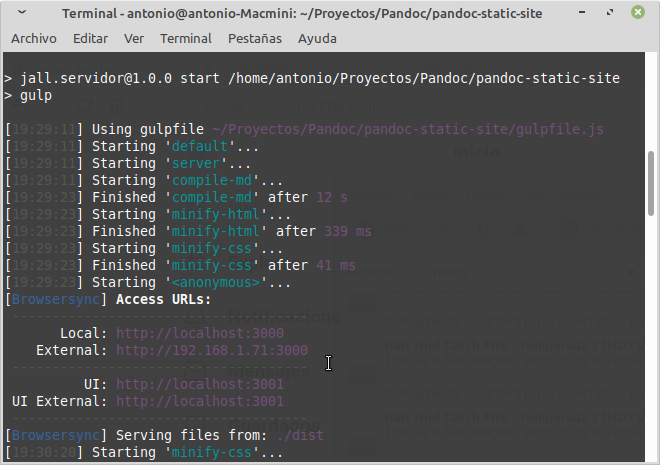
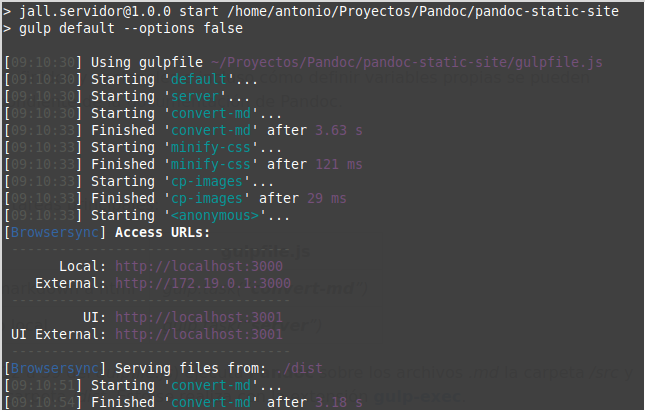
$1

Changed region(s): [[0.0, 0.0, 1.0, 1.0], [0.4961, 0.761, 0.5271, 0.7902]]

diff --git a/dist/detalles/index.html b/dist/detalles/index.html
@@ -1,32 +1,57 @@
 <!DOCTYPE html><html lang="es-ES"><head><meta charset="utf-8"><meta name="viewport" content="width=device-width,initial-scale=1,user-scalable=yes"><meta name="author" content="Jall Profesor"><meta name="keywords" content="static generator, web estática, pandoc,markdown, gulp, github pages, katex, mermaid"><meta name="description" content="Explicación detallada de las herramientas y el flujo de trabajo de este generador de contenido estático"><title>Generador de sitio estático con Pandoc – Detalles</title><meta property="og:title" content="Generador de sitio estático con Pandoc - Detalles"><meta property="og:description" content="Explicación detallada de las herramientas y el flujo de trabajo de este generador de contenido estático"><meta property="og:image" content="https://joseantoniolopezlorenzo.github.io/pandoc-static-site/assets/images/meta-facebook-image.jpg"><meta property="og:url" content="https://joseantoniolopezlorenzo.github.io/pandoc-static-site/"><meta name="twitter:image" content="https://joseantoniolopezlorenzo.github.io/pandoc-static-site/assets/images/meta-twitter-image.jpg"><meta name="twitter:card" content="summary"><meta property="og:site_name" content="Generador de sitio estático con Pandoc"><meta name="twitter:image:alt" content="Generador de sitio estático con Pandoc"><meta name="twitter:site" content="@JallProfesor"><style type="text/css">pre>code.sourceCode{white-space:pre;position:relative}pre>code.sourceCode>span{display:inline-block;line-height:1.25}pre>code.sourceCode>span:empty{height:1.2em}code.sourceCode>span{color:inherit;text-decoration:inherit}div.sourceCode{margin:1em 0}pre.sourceCode{margin:0}@media screen{div.sourceCode{overflow:auto}}@media print{pre>code.sourceCode{white-space:pre-wrap}pre>code.sourceCode>span{text-indent:-5em;padding-left:5em}}pre.numberSource code{counter-reset:source-line 0}pre.numberSource code>span{position:relative;left:-4em;counter-increment:source-line}pre.numberSource code>span>a:first-child::before{content:counter(source-line);position:relative;left:-1em;text-align:right;vertical-align:baseline;border:none;display:inline-block;-webkit-touch-callout:none;-webkit-user-select:none;-khtml-user-select:none;-moz-user-select:none;-ms-user-select:none;user-select:none;padding:0 4px;width:4em;color:#aaa}pre.numberSource{margin-left:3em;border-left:1px solid #aaa;padding-left:4px}@media screen{pre>code.sourceCode>span>a:first-child::before{text-decoration:underline}}code span.al{color:red;font-weight:700}code span.an{color:#60a0b0;font-weight:700;font-style:italic}code span.at{color:#7d9029}code span.bn{color:#40a070}code span.cf{color:#007020;font-weight:700}code span.ch{color:#4070a0}code span.cn{color:#800}code span.co{color:#60a0b0;font-style:italic}code span.cv{color:#60a0b0;font-weight:700;font-style:italic}code span.do{color:#ba2121;font-style:italic}code span.dt{color:#902000}code span.dv{color:#40a070}code span.er{color:red;font-weight:700}code span.fl{color:#40a070}code span.fu{color:#06287e}code span.in{color:#60a0b0;font-weight:700;font-style:italic}code span.kw{color:#007020;font-weight:700}code span.op{color:#666}code span.ot{color:#007020}code span.pp{color:#bc7a00}code span.sc{color:#4070a0}code span.ss{color:#b68}code span.st{color:#4070a0}code span.va{color:#19177c}code span.vs{color:#4070a0}code span.wa{color:#60a0b0;font-weight:700;font-style:italic}</style><link rel="shortcut icon" href="/pandoc-static-site/assets/images/favicon.ico"><link rel="stylesheet" href="../assets/katex.min.css"><link rel="stylesheet" href="../assets/github.min.css"><link rel="stylesheet" href="../assets/jall.min.css"><!--[if lt IE 9]>
     <script src="//cdnjs.cloudflare.com/ajax/libs/html5shiv/3.7.3/html5shiv-printshiv.min.js"></script>
-  <![endif]--><script>console.log("hola mundo")</script></head><body><article class="markdown-body"><div class="header_nav"><ul><li><a href="/pandoc-static-site/index.html">Inicio</a></li><li><a href="/pandoc-static-site/detalles/index.html">Detalles</a></li><li><a href="https://github.com/joseantoniolopezlorenzo/pandoc-static-site">Repositorio</a></li><li><a href="/">CV</a></li></ul></div><header><h1 class="title followed-by-subtitle">Detalles</h1><p class="subtitle">Las herramientas utilizadas en detalle</p><p class="author">Jall Profesor - 26/10/2020</p></header><hr><nav id="TOC"><h1 class="toc-title">En esta página</h1><ul><li><a href="#requisitos.">Requisitos.</a><ul><li><a href="#instalación-de-pandoc-y-filtros.">Instalación de Pandoc y filtros.</a></li></ul></li><li><a href="#elementos">Elementos</a><ul><li><a href="#plantilla-pandoc.">Plantilla Pandoc.</a></li><li><a href="#html.yaml">html.yaml</a></li><li><a href="#archivos-markdown-y-assets.">Archivos markdown y assets.</a></li></ul></li><li><a href="#gulp.">Gulp.</a></li><li><a href="#git.">Git.</a></li></ul></nav><hr><section id="requisitos." class="level1"><h1>Requisitos.</h1><section id="instalación-de-pandoc-y-filtros." class="level2"><h2>Instalación de Pandoc y filtros.</h2><p>Es preciso tener instalado <strong>Pandoc</strong> en nuestro ordenador de desarrollo. En <a href="https://pandoc.org/installing.html">esta dirección</a> encontrará instaladores para Windows, macOS, Linux, etc.</p><p>Las extensiones de pandoc que se utilizan en el proyecto son:</p><ul><li><a href="https://pypi.org/project/pandoc_static_katex/">pandoc-static-katex</a>: Este filtro que usa <span class="math inline" data-latex-input="\KaTeX"><span class="katex"><span class="katex-mathml"><math xmlns="http://www.w3.org/1998/Math/MathML"><semantics><mrow><mtext>KaTeX</mtext></mrow><annotation encoding="application/x-tex">\KaTeX</annotation></semantics></math></span><span class="katex-html" aria-hidden="true"><span class="base"><span class="strut" style="height:.89883em;vertical-align:-.2155em"></span><span class="mord text"><span class="mord textrm">K</span><span class="mspace" style="margin-right:-.17em"></span><span class="vlist-t"><span class="vlist-r"><span class="vlist" style="height:.68333em"><span style="top:-2.904999em"><span class="pstrut" style="height:2.7em"></span><span class="mord"><span class="mord textrm mtight sizing reset-size6 size3">A</span></span></span></span></span></span><span class="mspace" style="margin-right:-.15em"></span><span class="mord text"><span class="mord textrm">T</span><span class="mspace" style="margin-right:-.1667em"></span><span class="vlist-t vlist-t2"><span class="vlist-r"><span class="vlist" style="height:.46782999999999997em"><span style="top:-2.7845em"><span class="pstrut" style="height:3em"></span><span class="mord"><span class="mord textrm">E</span></span></span></span><span class="vlist-s"></span></span><span class="vlist-r"><span class="vlist" style="height:.2155em"><span></span></span></span></span><span class="mspace" style="margin-right:-.125em"></span><span class="mord textrm">X</span></span></span></span></span></span> </span>para representar ecuaciones matemáticas en el momento de la construcción (<em>build time</em>). Hace posible mostrar ecuaciones matemáticas escritas en <span class="math inline" data-latex-input="\LaTeX"><span class="katex"><span class="katex-mathml"><math xmlns="http://www.w3.org/1998/Math/MathML"><semantics><mrow><mtext>LaTeX</mtext></mrow><annotation encoding="application/x-tex">\LaTeX</annotation></semantics></math></span><span class="katex-html" aria-hidden="true"><span class="base"><span class="strut" style="height:.89883em;vertical-align:-.2155em"></span><span class="mord text"><span class="mord textrm">L</span><span class="mspace" style="margin-right:-.36em"></span><span class="vlist-t"><span class="vlist-r"><span class="vlist" style="height:.68333em"><span style="top:-2.904999em"><span class="pstrut" style="height:2.7em"></span><span class="mord"><span class="mord textrm mtight sizing reset-size6 size3">A</span></span></span></span></span></span><span class="mspace" style="margin-right:-.15em"></span><span class="mord text"><span class="mord textrm">T</span><span class="mspace" style="margin-right:-.1667em"></span><span class="vlist-t vlist-t2"><span class="vlist-r"><span class="vlist" style="height:.46782999999999997em"><span style="top:-2.7845em"><span class="pstrut" style="height:3em"></span><span class="mord"><span class="mord textrm">E</span></span></span></span><span class="vlist-s"></span></span><span class="vlist-r"><span class="vlist" style="height:.2155em"><span></span></span></span></span><span class="mspace" style="margin-right:-.125em"></span><span class="mord textrm">X</span></span></span></span></span></span> </span>sin ninguna ejecución de JavaScript en el navegador. El archivo <strong>katex.min.css</strong> se encuentra en <em>/dist/assets/katex.min.css</em> y las fuentes utilizadas por <span class="math inline" data-latex-input="\KaTeX"><span class="katex"><span class="katex-mathml"><math xmlns="http://www.w3.org/1998/Math/MathML"><semantics><mrow><mtext>KaTeX</mtext></mrow><annotation encoding="application/x-tex">\KaTeX</annotation></semantics></math></span><span class="katex-html" aria-hidden="true"><span class="base"><span class="strut" style="height:.89883em;vertical-align:-.2155em"></span><span class="mord text"><span class="mord textrm">K</span><span class="mspace" style="margin-right:-.17em"></span><span class="vlist-t"><span class="vlist-r"><span class="vlist" style="height:.68333em"><span style="top:-2.904999em"><span class="pstrut" style="height:2.7em"></span><span class="mord"><span class="mord textrm mtight sizing reset-size6 size3">A</span></span></span></span></span></span><span class="mspace" style="margin-right:-.15em"></span><span class="mord text"><span class="mord textrm">T</span><span class="mspace" style="margin-right:-.1667em"></span><span class="vlist-t vlist-t2"><span class="vlist-r"><span class="vlist" style="height:.46782999999999997em"><span style="top:-2.7845em"><span class="pstrut" style="height:3em"></span><span class="mord"><span class="mord textrm">E</span></span></span></span><span class="vlist-s"></span></span><span class="vlist-r"><span class="vlist" style="height:.2155em"><span></span></span></span></span><span class="mspace" style="margin-right:-.125em"></span><span class="mord textrm">X</span></span></span></span></span></span> </span>en <em>/dist/assets/fonts</em>.</li><li><a href="https://github.com/raghur/mermaid-filter">mermaid-filter</a>: Este filtro permite realizar diagramas de secuencia y otros gráficos en archivos markdown.</li><li><a href="https://github.com/scotthartley/pandoc-chem-struct">pandoc-chem-struct</a>: es un filtro que convierte estructuras químicas simples en el formato adecuado siendo más fáciles de leer y de escribir.</li></ul></section></section><section id="elementos" class="level1"><h1>Elementos</h1><section id="plantilla-pandoc." class="level2"><h2>Plantilla Pandoc.</h2><p>Una vez cubierto el paso anterior, necesitaremos una <strong>plantilla html5 pandoc</strong> que permita la traducción a html. Hemos elegido la plantilla <strong>Github</strong> que encontrará en la carpeta <em>/templates/Github.html</em> y que ha sido convenientemente adaptada. Asimismo, se necesita el correspondiente archivo de estilos que puede encontrar en <em>/src/assets/github.css</em>. Finalmente, un archivo con los estilos personales <em>/src/assets/jall.css</em>. Puede encontrar muchas más plantillas <a href="https://github.com/topics/pandoc-template">aquí</a></p></section><section id="html.yaml" class="level2"><h2>html.yaml</h2><p>Necesitamos un archivo <strong>html.yaml</strong> que nos permita configurar la compilación de Pandoc. Lo puede encontrar en <em>/html.yaml</em> y que consta del siguiente contenido:</p><div class="sourceCode" id="cb1"><pre class="sourceCode yaml"><code class="sourceCode yaml"><span id="cb1-1"><a href="#cb1-1" aria-hidden="true"></a><span class="fu">from</span><span class="kw">:</span><span class="at"> markdown</span></span>
-<span id="cb1-2"><a href="#cb1-2" aria-hidden="true"></a><span class="fu">to</span><span class="kw">:</span><span class="at"> html5</span></span>
-<span id="cb1-3"><a href="#cb1-3" aria-hidden="true"></a><span class="fu">fail-if-warnings</span><span class="kw">:</span><span class="at"> </span><span class="ch">false</span></span>
-<span id="cb1-4"><a href="#cb1-4" aria-hidden="true"></a><span class="fu">standalone</span><span class="kw">:</span><span class="at"> </span><span class="ch">true</span></span>
-<span id="cb1-5"><a href="#cb1-5" aria-hidden="true"></a><span class="fu">section-divs</span><span class="kw">:</span><span class="at"> </span><span class="ch">true</span></span>
-<span id="cb1-6"><a href="#cb1-6" aria-hidden="true"></a><span class="fu">eol</span><span class="kw">:</span><span class="at"> lf</span></span>
-<span id="cb1-7"><a href="#cb1-7" aria-hidden="true"></a><span class="fu">filters</span><span class="kw">:</span></span>
-<span id="cb1-8"><a href="#cb1-8" aria-hidden="true"></a><span class="at">  </span><span class="kw">-</span><span class="at"> pandoc-static-katex</span></span>
-<span id="cb1-9"><a href="#cb1-9" aria-hidden="true"></a><span class="at">  </span><span class="kw">-</span><span class="at"> mermaid-filter</span></span>
-<span id="cb1-10"><a href="#cb1-10" aria-hidden="true"></a><span class="at">  </span><span class="kw">-</span><span class="at"> pandoc-chem-struct</span></span>
-<span id="cb1-11"><a href="#cb1-11" aria-hidden="true"></a><span class="fu">template</span><span class="kw">:</span><span class="at"> ./templates/GitHub.html</span></span>
-<span id="cb1-12"><a href="#cb1-12" aria-hidden="true"></a><span class="fu">include-in-header</span><span class="kw">:</span></span>
-<span id="cb1-13"><a href="#cb1-13" aria-hidden="true"></a><span class="at">  </span><span class="kw">-</span><span class="at"> templates/header.txt</span></span>
-<span id="cb1-14"><a href="#cb1-14" aria-hidden="true"></a><span class="fu">toc</span><span class="kw">:</span><span class="at"> </span><span class="ch">true</span></span>
-<span id="cb1-15"><a href="#cb1-15" aria-hidden="true"></a><span class="fu">toc-depth</span><span class="kw">:</span><span class="at"> </span><span class="dv">3</span></span></code></pre></div></section><section id="archivos-markdown-y-assets." class="level2"><h2>Archivos markdown y assets.</h2><p>Se encuentan en la carpeta <em>/src</em>. Cada archivo <em>*.md</em> será convertido en su correspondiente archivo <em>*.html</em>. Por otro lado, se pueden crear tantas subcarpetas como sean necesarias (este markdown se encuentra, por ejemplo, en <em>/src/detalles/index.md</em>).</p><p>Un elemento importante de los achivos markdown son las cabeceras escritas en markdown que aportan <strong>metainformación</strong> necesaria. Por ejemplo, esta es la cabecera de este archivo:</p><div class="sourceCode" id="cb2"><pre class="sourceCode yaml"><code class="sourceCode yaml"><span id="cb2-1"><a href="#cb2-1" aria-hidden="true"></a></span>
-<span id="cb2-2"><a href="#cb2-2" aria-hidden="true"></a><span class="pp">---</span></span>
-<span id="cb2-3"><a href="#cb2-3" aria-hidden="true"></a><span class="at">  </span><span class="fu">title</span><span class="kw">:</span><span class="at"> Detalles</span></span>
-<span id="cb2-4"><a href="#cb2-4" aria-hidden="true"></a><span class="at">  </span><span class="fu">title-prefix</span><span class="kw">:</span><span class="at"> Generador de sitio estático con Pandoc</span></span>
-<span id="cb2-5"><a href="#cb2-5" aria-hidden="true"></a><span class="at">  </span><span class="fu">subtitle</span><span class="kw">:</span><span class="at"> Las herramientas utilizadas en detalle</span></span>
-<span id="cb2-6"><a href="#cb2-6" aria-hidden="true"></a><span class="at">  </span><span class="fu">description</span><span class="kw">:</span><span class="at"> Explicación detallada de las herramientas y el flujo de trabajo de este generador de contenido estático</span></span>
-<span id="cb2-7"><a href="#cb2-7" aria-hidden="true"></a><span class="at">  </span><span class="fu">keywords</span><span class="kw">:</span><span class="at"> static generator, web estática, pandoc,markdown, gulp, github pages, katex, mermaid</span></span>
-<span id="cb2-8"><a href="#cb2-8" aria-hidden="true"></a><span class="at">  </span><span class="fu">lang</span><span class="kw">:</span><span class="at"> </span><span class="st">&#39;es-ES&#39;</span></span>
-<span id="cb2-9"><a href="#cb2-9" aria-hidden="true"></a><span class="at">  </span><span class="fu">toc-title</span><span class="kw">:</span><span class="at"> En esta página</span></span>
-<span id="cb2-10"><a href="#cb2-10" aria-hidden="true"></a><span class="at">  </span><span class="fu">date</span><span class="kw">:</span><span class="at"> 26/10/2020</span></span>
-<span id="cb2-11"><a href="#cb2-11" aria-hidden="true"></a><span class="at">  </span><span class="fu">author</span><span class="kw">:</span><span class="at"> Jall Profesor</span></span>
-<span id="cb2-12"><a href="#cb2-12" aria-hidden="true"></a><span class="at">  </span><span class="fu">css</span><span class="kw">:</span></span>
-<span id="cb2-13"><a href="#cb2-13" aria-hidden="true"></a><span class="at">    </span><span class="kw">-</span><span class="at"> ../assets/katex.min.css</span></span>
-<span id="cb2-14"><a href="#cb2-14" aria-hidden="true"></a><span class="at">    </span><span class="kw">-</span><span class="at"> ../assets/github.min.css</span></span>
-<span id="cb2-15"><a href="#cb2-15" aria-hidden="true"></a><span class="at">    </span><span class="kw">-</span><span class="at"> ../assets/jall.min.css</span></span>
-<span id="cb2-16"><a href="#cb2-16" aria-hidden="true"></a><span class="pp">---</span></span></code></pre></div><p>Otros campos de metainformación e incluso definir variables se pueden encontrar en el apartado correspondiente de la <a href="https://pandoc.org/MANUAL.html">documentación</a> de Pandoc.</p></section></section><section id="gulp." class="level1"><h1>Gulp.</h1></section><section id="git." class="level1"><h1>Git.</h1></section><section class="contacto">Contacto<ul class="contacto-container center"><li class="contacto-item"><a href="https://github.com/joseantoniolopezlorenzo"><img src="/pandoc-static-site/assets/images/github.svg" alt="GitHub"></a></li><li class="contacto-item"><a href="mailto:jall.profesor@gmail.com"><img src="/pandoc-static-site/assets/images/email.svg" alt="Email contacto"></a></li><li class="contacto-item"><a href="https://twitter.com/JallProfesor"><img src="/pandoc-static-site/assets/images/twitter.svg" alt="Twitter"></a></li><li class="contacto-item"><a href="https://www.facebook.com/joseantonio.lopezlorenzo.31508"><img src="/pandoc-static-site/assets/images/facebook.svg" alt="Facebook"></a></li></ul></section></article></body></html>
+  <![endif]--><script>console.log("hola mundo")</script></head><body><article class="markdown-body"><div class="header_nav"><ul><li><a href="/pandoc-static-site/index.html">Inicio</a></li><li><a href="/pandoc-static-site/detalles/index.html">Detalles</a></li><li><a href="https://github.com/joseantoniolopezlorenzo/pandoc-static-site">Repositorio</a></li><li><a href="/">CV</a></li></ul></div><header><h1 class="title followed-by-subtitle">Detalles</h1><p class="subtitle">Las herramientas utilizadas en detalle</p><p class="author">Jall Profesor - 26/10/2020</p></header><hr><nav id="TOC"><h1 class="toc-title">En esta página</h1><ul><li><a href="#requisitos.">Requisitos.</a><ul><li><a href="#instalación-de-pandoc-y-gulp.">Instalación de Pandoc y Gulp.</a></li></ul></li><li><a href="#elementos-de-contenido.">Elementos de contenido.</a><ul><li><a href="#plantilla-pandoc.">Plantilla Pandoc.</a></li><li><a href="#html.yaml">html.yaml</a></li><li><a href="#archivos-markdown-y-assets.">Archivos markdown y assets.</a></li></ul></li><li><a href="#gulp.">Gulp.</a></li><li><a href="#git.">Git.</a></li></ul></nav><hr><section id="requisitos." class="level1"><h1>Requisitos.</h1><section id="instalación-de-pandoc-y-gulp." class="level2"><h2>Instalación de Pandoc y Gulp.</h2><p>Es preciso tener instalado <strong>Pandoc</strong> en nuestro ordenador de desarrollo. En <a href="https://pandoc.org/installing.html">esta dirección</a> encontrará instaladores para Windows, macOS, Linux, etc.</p><p>Las extensiones de pandoc que se utilizan en el proyecto son:</p><ul><li><a href="https://pypi.org/project/pandoc_static_katex/">pandoc-static-katex</a>: Este filtro que usa <span class="math inline" data-latex-input="\KaTeX"><span class="katex"><span class="katex-mathml"><math xmlns="http://www.w3.org/1998/Math/MathML"><semantics><mrow><mtext>KaTeX</mtext></mrow><annotation encoding="application/x-tex">\KaTeX</annotation></semantics></math></span><span class="katex-html" aria-hidden="true"><span class="base"><span class="strut" style="height:.89883em;vertical-align:-.2155em"></span><span class="mord text"><span class="mord textrm">K</span><span class="mspace" style="margin-right:-.17em"></span><span class="vlist-t"><span class="vlist-r"><span class="vlist" style="height:.68333em"><span style="top:-2.904999em"><span class="pstrut" style="height:2.7em"></span><span class="mord"><span class="mord textrm mtight sizing reset-size6 size3">A</span></span></span></span></span></span><span class="mspace" style="margin-right:-.15em"></span><span class="mord text"><span class="mord textrm">T</span><span class="mspace" style="margin-right:-.1667em"></span><span class="vlist-t vlist-t2"><span class="vlist-r"><span class="vlist" style="height:.46782999999999997em"><span style="top:-2.7845em"><span class="pstrut" style="height:3em"></span><span class="mord"><span class="mord textrm">E</span></span></span></span><span class="vlist-s"></span></span><span class="vlist-r"><span class="vlist" style="height:.2155em"><span></span></span></span></span><span class="mspace" style="margin-right:-.125em"></span><span class="mord textrm">X</span></span></span></span></span></span> </span>para representar ecuaciones matemáticas en el momento de la construcción (<em>build time</em>). Hace posible mostrar ecuaciones matemáticas escritas en <span class="math inline" data-latex-input="\LaTeX"><span class="katex"><span class="katex-mathml"><math xmlns="http://www.w3.org/1998/Math/MathML"><semantics><mrow><mtext>LaTeX</mtext></mrow><annotation encoding="application/x-tex">\LaTeX</annotation></semantics></math></span><span class="katex-html" aria-hidden="true"><span class="base"><span class="strut" style="height:.89883em;vertical-align:-.2155em"></span><span class="mord text"><span class="mord textrm">L</span><span class="mspace" style="margin-right:-.36em"></span><span class="vlist-t"><span class="vlist-r"><span class="vlist" style="height:.68333em"><span style="top:-2.904999em"><span class="pstrut" style="height:2.7em"></span><span class="mord"><span class="mord textrm mtight sizing reset-size6 size3">A</span></span></span></span></span></span><span class="mspace" style="margin-right:-.15em"></span><span class="mord text"><span class="mord textrm">T</span><span class="mspace" style="margin-right:-.1667em"></span><span class="vlist-t vlist-t2"><span class="vlist-r"><span class="vlist" style="height:.46782999999999997em"><span style="top:-2.7845em"><span class="pstrut" style="height:3em"></span><span class="mord"><span class="mord textrm">E</span></span></span></span><span class="vlist-s"></span></span><span class="vlist-r"><span class="vlist" style="height:.2155em"><span></span></span></span></span><span class="mspace" style="margin-right:-.125em"></span><span class="mord textrm">X</span></span></span></span></span></span> </span>sin ninguna ejecución de JavaScript en el navegador. El archivo <strong>katex.min.css</strong> se encuentra en <em>/dist/assets/katex.min.css</em> y las fuentes utilizadas por <span class="math inline" data-latex-input="\KaTeX"><span class="katex"><span class="katex-mathml"><math xmlns="http://www.w3.org/1998/Math/MathML"><semantics><mrow><mtext>KaTeX</mtext></mrow><annotation encoding="application/x-tex">\KaTeX</annotation></semantics></math></span><span class="katex-html" aria-hidden="true"><span class="base"><span class="strut" style="height:.89883em;vertical-align:-.2155em"></span><span class="mord text"><span class="mord textrm">K</span><span class="mspace" style="margin-right:-.17em"></span><span class="vlist-t"><span class="vlist-r"><span class="vlist" style="height:.68333em"><span style="top:-2.904999em"><span class="pstrut" style="height:2.7em"></span><span class="mord"><span class="mord textrm mtight sizing reset-size6 size3">A</span></span></span></span></span></span><span class="mspace" style="margin-right:-.15em"></span><span class="mord text"><span class="mord textrm">T</span><span class="mspace" style="margin-right:-.1667em"></span><span class="vlist-t vlist-t2"><span class="vlist-r"><span class="vlist" style="height:.46782999999999997em"><span style="top:-2.7845em"><span class="pstrut" style="height:3em"></span><span class="mord"><span class="mord textrm">E</span></span></span></span><span class="vlist-s"></span></span><span class="vlist-r"><span class="vlist" style="height:.2155em"><span></span></span></span></span><span class="mspace" style="margin-right:-.125em"></span><span class="mord textrm">X</span></span></span></span></span></span> </span>en <em>/dist/assets/fonts</em>.</li><li><a href="https://github.com/raghur/mermaid-filter">mermaid-filter</a>: Este filtro permite realizar diagramas de secuencia y otros gráficos en archivos markdown.</li><li><a href="https://github.com/scotthartley/pandoc-chem-struct">pandoc-chem-struct</a>: es un filtro que convierte estructuras químicas simples en el formato adecuado siendo más fáciles de leer y de escribir.</li></ul><p>Otro requisito imprescindible es tener instalado <strong>nodejs</strong> para poder utilizar el automatizador de tareas <strong>Gulp</strong>. Se puede revisar el archivo <em>package.json</em> para ver los paquetes utilizados en el proyecto. No olvide ejecutar en el terminal si ha clonado el repositorio:</p><div class="sourceCode" id="cb1"><pre class="sourceCode bash"><code class="sourceCode bash"><span id="cb1-1"><a href="#cb1-1" aria-hidden="true"></a>$ <span class="ex">npm</span> install</span></code></pre></div></section></section><section id="elementos-de-contenido." class="level1"><h1>Elementos de contenido.</h1><section id="plantilla-pandoc." class="level2"><h2>Plantilla Pandoc.</h2><p>Una vez cubierto el paso anterior, necesitaremos una <strong>plantilla html5 pandoc</strong> que permita la traducción a html. Hemos elegido la plantilla <strong>Github</strong> que encontrará en la carpeta <em>/templates/Github.html</em> y que ha sido convenientemente adaptada. Asimismo, se necesita el correspondiente archivo de estilos que puede encontrar en <em>/src/assets/github.css</em>. Es altamente recomendable leer con detalle y tratar de entender esta plantilla para hacerse una idea de cómo funciona <strong>Pandoc</strong>. Finalmente, un archivo con los estilos personales <em>/src/assets/jall.css</em>. Puede encontrar muchas más plantillas <a href="https://github.com/topics/pandoc-template">aquí</a></p></section><section id="html.yaml" class="level2"><h2>html.yaml</h2><p>Necesitamos un archivo <strong>html.yaml</strong> que nos permita configurar la compilación de Pandoc y así evitar una enorme línea de comando de conversión. Lo puede encontrar en <em>/html.yaml</em>:</p><div class="sourceCode" id="cb2"><pre class="sourceCode yaml"><code class="sourceCode yaml"><span id="cb2-1"><a href="#cb2-1" aria-hidden="true"></a><span class="fu">from</span><span class="kw">:</span><span class="at"> markdown</span></span>
+<span id="cb2-2"><a href="#cb2-2" aria-hidden="true"></a><span class="fu">to</span><span class="kw">:</span><span class="at"> html5</span></span>
+<span id="cb2-3"><a href="#cb2-3" aria-hidden="true"></a><span class="fu">fail-if-warnings</span><span class="kw">:</span><span class="at"> </span><span class="ch">false</span></span>
+<span id="cb2-4"><a href="#cb2-4" aria-hidden="true"></a><span class="fu">standalone</span><span class="kw">:</span><span class="at"> </span><span class="ch">true</span></span>
+<span id="cb2-5"><a href="#cb2-5" aria-hidden="true"></a><span class="fu">section-divs</span><span class="kw">:</span><span class="at"> </span><span class="ch">true</span></span>
+<span id="cb2-6"><a href="#cb2-6" aria-hidden="true"></a><span class="fu">eol</span><span class="kw">:</span><span class="at"> lf</span></span>
+<span id="cb2-7"><a href="#cb2-7" aria-hidden="true"></a><span class="fu">filters</span><span class="kw">:</span></span>
+<span id="cb2-8"><a href="#cb2-8" aria-hidden="true"></a><span class="at">  </span><span class="kw">-</span><span class="at"> pandoc-static-katex</span></span>
+<span id="cb2-9"><a href="#cb2-9" aria-hidden="true"></a><span class="at">  </span><span class="kw">-</span><span class="at"> mermaid-filter</span></span>
+<span id="cb2-10"><a href="#cb2-10" aria-hidden="true"></a><span class="at">  </span><span class="kw">-</span><span class="at"> pandoc-chem-struct</span></span>
+<span id="cb2-11"><a href="#cb2-11" aria-hidden="true"></a><span class="fu">template</span><span class="kw">:</span><span class="at"> ./templates/GitHub.html</span></span>
+<span id="cb2-12"><a href="#cb2-12" aria-hidden="true"></a><span class="fu">include-in-header</span><span class="kw">:</span></span>
+<span id="cb2-13"><a href="#cb2-13" aria-hidden="true"></a><span class="at">  </span><span class="kw">-</span><span class="at"> templates/header.txt</span></span>
+<span id="cb2-14"><a href="#cb2-14" aria-hidden="true"></a><span class="fu">toc</span><span class="kw">:</span><span class="at"> </span><span class="ch">true</span></span>
+<span id="cb2-15"><a href="#cb2-15" aria-hidden="true"></a><span class="fu">toc-depth</span><span class="kw">:</span><span class="at"> </span><span class="dv">3</span></span></code></pre></div></section><section id="archivos-markdown-y-assets." class="level2"><h2>Archivos markdown y assets.</h2><p>Se encuentan en la carpeta <em>/src</em>. Cada archivo <em>*.md</em> será convertido en su correspondiente archivo <em>*.html</em>. Por otro lado, se pueden crear tantas subcarpetas como sean necesarias (este markdown se encuentra, por ejemplo, en <em>/src/detalles/index.md</em>). La carpeta assets será copiada a <em>/dist</em> después de un minimizado de los archivos <em>css</em>.</p><p>Un elemento importante de los achivos markdown son las cabeceras escritas en yaml que aportan <strong>metadatos</strong> específicos de cada archivo a la hora de la conversión en páginas web. Por ejemplo, la cabecera del archivo correspondiente a esta página web es:</p><div class="sourceCode" id="cb3"><pre class="sourceCode yaml"><code class="sourceCode yaml"><span id="cb3-1"><a href="#cb3-1" aria-hidden="true"></a></span>
+<span id="cb3-2"><a href="#cb3-2" aria-hidden="true"></a><span class="pp">---</span></span>
+<span id="cb3-3"><a href="#cb3-3" aria-hidden="true"></a><span class="at">  </span><span class="fu">title</span><span class="kw">:</span><span class="at"> Detalles</span></span>
+<span id="cb3-4"><a href="#cb3-4" aria-hidden="true"></a><span class="at">  </span><span class="fu">title-prefix</span><span class="kw">:</span><span class="at"> Generador de sitio estático con Pandoc</span></span>
+<span id="cb3-5"><a href="#cb3-5" aria-hidden="true"></a><span class="at">  </span><span class="fu">subtitle</span><span class="kw">:</span><span class="at"> Las herramientas utilizadas en detalle</span></span>
+<span id="cb3-6"><a href="#cb3-6" aria-hidden="true"></a><span class="at">  </span><span class="fu">description</span><span class="kw">:</span><span class="at"> Explicación detallada de las herramientas y el flujo de trabajo de este generador de contenido estático</span></span>
+<span id="cb3-7"><a href="#cb3-7" aria-hidden="true"></a><span class="at">  </span><span class="fu">keywords</span><span class="kw">:</span><span class="at"> static generator, web estática, pandoc,markdown, gulp, github pages, katex, mermaid</span></span>
+<span id="cb3-8"><a href="#cb3-8" aria-hidden="true"></a><span class="at">  </span><span class="fu">lang</span><span class="kw">:</span><span class="at"> </span><span class="st">&#39;es-ES&#39;</span></span>
+<span id="cb3-9"><a href="#cb3-9" aria-hidden="true"></a><span class="at">  </span><span class="fu">toc-title</span><span class="kw">:</span><span class="at"> En esta página</span></span>
+<span id="cb3-10"><a href="#cb3-10" aria-hidden="true"></a><span class="at">  </span><span class="fu">date</span><span class="kw">:</span><span class="at"> 26/10/2020</span></span>
+<span id="cb3-11"><a href="#cb3-11" aria-hidden="true"></a><span class="at">  </span><span class="fu">author</span><span class="kw">:</span><span class="at"> Jall Profesor</span></span>
+<span id="cb3-12"><a href="#cb3-12" aria-hidden="true"></a><span class="at">  </span><span class="fu">css</span><span class="kw">:</span></span>
+<span id="cb3-13"><a href="#cb3-13" aria-hidden="true"></a><span class="at">    </span><span class="kw">-</span><span class="at"> ../assets/katex.min.css</span></span>
+<span id="cb3-14"><a href="#cb3-14" aria-hidden="true"></a><span class="at">    </span><span class="kw">-</span><span class="at"> ../assets/github.min.css</span></span>
+<span id="cb3-15"><a href="#cb3-15" aria-hidden="true"></a><span class="at">    </span><span class="kw">-</span><span class="at"> ../assets/jall.min.css</span></span>
+<span id="cb3-16"><a href="#cb3-16" aria-hidden="true"></a><span class="pp">---</span></span></code></pre></div><p>Casi todos los metadatos son opcionales salvo el título de la página y los archivos <em>css</em> usados en la página. Un detalle importante: estos datos deben tener una regla que los trate en la plantilla <em>GitHub.html</em>. Por ejemplo, a los metadatos:</p><div class="sourceCode" id="cb4"><pre class="sourceCode yaml"><code class="sourceCode yaml"><span id="cb4-1"><a href="#cb4-1" aria-hidden="true"></a><span class="fu">css</span><span class="kw">:</span></span>
+<span id="cb4-2"><a href="#cb4-2" aria-hidden="true"></a><span class="at">    </span><span class="kw">-</span><span class="at"> ../assets/katex.min.css</span></span>
+<span id="cb4-3"><a href="#cb4-3" aria-hidden="true"></a><span class="at">    </span><span class="kw">-</span><span class="at"> ../assets/github.min.css</span></span>
+<span id="cb4-4"><a href="#cb4-4" aria-hidden="true"></a><span class="at">    </span><span class="kw">-</span><span class="at"> ../assets/jall.min.css</span></span></code></pre></div><p>le corresponde el siguiente fragmento en la plantilla:</p><div class="sourceCode" id="cb5"><pre class="sourceCode html"><code class="sourceCode html"><span id="cb5-1"><a href="#cb5-1" aria-hidden="true"></a>$for(css)$</span>
+<span id="cb5-2"><a href="#cb5-2" aria-hidden="true"></a>  <span class="kw">&lt;link</span><span class="ot"> rel=</span><span class="st">&quot;stylesheet&quot;</span><span class="ot"> href=</span><span class="st">&quot;$css$&quot;</span><span class="kw">&gt;</span></span>
+<span id="cb5-3"><a href="#cb5-3" aria-hidden="true"></a>$endfor$</span></code></pre></div><p>Otros campos de metadatos predefinidos y opcionales e incluso cómo definir variables propias se pueden encontrar en el apartado correspondiente de la <a href="https://pandoc.org/MANUAL.html">documentación</a> de Pandoc.</p></section></section><section id="gulp." class="level1"><h1>Gulp.</h1><p>El proyecto utiliza <strong>Gulp</strong> para dos tareas principales:</p><table><thead><tr class="header"><th>Tareas</th><th>gulpfile.js</th></tr></thead><tbody><tr class="odd"><td>automatizar la conversión de markdown a html</td><td><em>gulp.task(“<strong>convert-md</strong>”)</em></td></tr><tr class="even"><td>pequeño servidor de desarrollo local</td><td><em>gulp.task(“<strong>server</strong>”)</em></td></tr></tbody></table><p><em>gulp.task(“convert-md”)</em> (líneas 12 a 39 del <em>gulpfile.js</em>) ejecuta <strong>Pandoc</strong> sobre los archivos <em>.md</em> la carpeta <em>/src</em> y mueve los <em>.html</em> resultantes a la carpeta <em>/dist</em>. Esto se realiza con la extensión <a href="https://github.com/robrich/gulp-exec"><strong>gulp-exec</strong></a>.</p><p>Para lanzar el servidor de desarrollo ejecute:</p><div class="sourceCode" id="cb6"><pre class="sourceCode bash"><code class="sourceCode bash"><span id="cb6-1"><a href="#cb6-1" aria-hidden="true"></a><span class="ex">npm</span> start</span></code></pre></div><p>Su salida debería verse similar a esta:</p><pre><code>&gt; gulp default --options false
+
+[09:10:30] Using gulpfile ~/Proyectos/Pandoc/pandoc-static-site/gulpfile.js
+[09:10:30] Starting &#39;default&#39;...
+[09:10:30] Starting &#39;server&#39;...
+[09:10:30] Starting &#39;convert-md&#39;...
+[09:10:33] Finished &#39;convert-md&#39; after 3.63 s
+[09:10:33] Starting &#39;minify-css&#39;...
+[09:10:33] Finished &#39;minify-css&#39; after 121 ms
+[09:10:33] Starting &#39;cp-images&#39;...
+[09:10:33] Finished &#39;cp-images&#39; after 29 ms
+[09:10:33] Starting &#39;&lt;anonymous&gt;&#39;...
+[Browsersync] Access URLs:
+ -----------------------------------
+       Local: http://localhost:3000
+    External: http://172.19.0.1:3000
+ -----------------------------------
+          UI: http://localhost:3001
+ UI External: http://localhost:3001
+ -----------------------------------
+[Browsersync] Serving files from: ./dist</code></pre><p>Puede trabajar en elaborar su contenido mientras que el servidor estará observando y esperando cambios; se encargará de actualizar la salida en el navegador cuando detecte cambios en <em>.md</em>, <em>.css</em> y la carpeta de <em>images</em></p></section><section id="git." class="level1"><h1>Git.</h1></section><section class="contacto">Contacto<ul class="contacto-container center"><li class="contacto-item"><a href="https://github.com/joseantoniolopezlorenzo"><img src="/pandoc-static-site/assets/images/github.svg" alt="GitHub"></a></li><li class="contacto-item"><a href="mailto:jall.profesor@gmail.com"><img src="/pandoc-static-site/assets/images/email.svg" alt="Email contacto"></a></li><li class="contacto-item"><a href="https://twitter.com/JallProfesor"><img src="/pandoc-static-site/assets/images/twitter.svg" alt="Twitter"></a></li><li class="contacto-item"><a href="https://www.facebook.com/joseantonio.lopezlorenzo.31508"><img src="/pandoc-static-site/assets/images/facebook.svg" alt="Facebook"></a></li></ul></section></article></body></html>

diff --git a/gulpfile.js b/gulpfile.js
@@ -9,7 +9,7 @@ var browserSync = require("browser-sync").create();
 const reload = browserSync.reload;
 const github = process.argv[4];
 
-gulp.task("compile-md", function () {
+gulp.task("convert-md", function () {
   var options = {
     continueOnError: false,
     pipeStdout: true,
@@ -31,10 +31,7 @@ gulp.task("compile-md", function () {
     .src("./src/**/*.md")
     .pipe(
       gulpexec(
-        (file) =>
-          `pandoc -d html -M github=${github} -s ${file.path} -o ${html(
-            file.path
-          )}`,
+        (file) =>`pandoc -d html -M github=${github} -s ${file.path} -o ${html(file.path)}`,
         options
       )
     )
@@ -70,11 +67,11 @@ gulp.task("minify-html", function () {
 
 gulp.task(
   "server",
-  gulp.series("compile-md", "minify-css", "cp-images", function () {
+  gulp.series("convert-md", "minify-css", "cp-images", function () {
     browserSync.init({
       server: "./dist",
     });
-    gulp.watch("./src/**/*.md", gulp.series("compile-md"));
+    gulp.watch("./src/**/*.md", gulp.series("convert-md"));
     gulp.watch("./src/assets/*.css", gulp.series("minify-css"));
     gulp.watch("./src/assets/images/*.*", gulp.series("cp-images"));
     // gulp.watch("./dist/**/*.html").on("change", reload);
@@ -83,4 +80,4 @@ gulp.task(
 );
 
 gulp.task("default", gulp.series("server"));
-gulp.task("build", gulp.series("compile-md", "minify-html"));
+gulp.task("build", gulp.series("convert-md", "minify-html"));

diff --git a/src/detalles/index.md b/src/detalles/index.md
@@ -16,7 +16,7 @@
 
 # Requisitos.
 
-## Instalación de Pandoc y filtros.
+## Instalación de Pandoc y Gulp.
 
 Es preciso tener instalado **Pandoc** en nuestro ordenador de desarrollo. En [esta dirección](https://pandoc.org/installing.html) encontrará instaladores para Windows, macOS, Linux, etc.
 
@@ -26,15 +26,22 @@ Las extensiones de pandoc que se utilizan en el proyecto son:
 - [mermaid-filter](https://github.com/raghur/mermaid-filter): Este filtro permite realizar diagramas de secuencia y otros gráficos en archivos markdown.
 - [pandoc-chem-struct](https://github.com/scotthartley/pandoc-chem-struct): es un filtro que convierte estructuras químicas simples en el formato adecuado siendo más fáciles de leer y de escribir.
 
-# Elementos
+Otro requisito imprescindible es tener instalado **nodejs** para poder utilizar el automatizador de tareas **Gulp**. Se puede revisar el archivo *package.json* para ver los paquetes utilizados en el proyecto. No olvide ejecutar en el terminal si ha clonado el repositorio:
+
+```bash
+$ npm install
+```
+
+# Elementos de contenido.
 
 ## Plantilla Pandoc.
 
-Una vez cubierto el paso anterior, necesitaremos una **plantilla html5 pandoc**  que permita la traducción a html. Hemos elegido la plantilla **Github** que encontrará en la carpeta */templates/Github.html* y que ha sido convenientemente adaptada. Asimismo, se necesita el correspondiente archivo de estilos que puede encontrar en */src/assets/github.css*. Finalmente, un archivo con los estilos personales */src/assets/jall.css*. Puede encontrar muchas más plantillas [aquí](https://github.com/topics/pandoc-template)
+Una vez cubierto el paso anterior, necesitaremos una **plantilla html5 pandoc**  que permita la traducción a html. Hemos elegido la plantilla **Github** que encontrará en la carpeta */templates/Github.html* y que ha sido convenientemente adaptada. Asimismo, se necesita el correspondiente archivo de estilos que puede encontrar en */src/assets/github.css*. Es altamente recomendable leer con detalle y tratar de entender esta plantilla para hacerse una idea de cómo funciona **Pandoc**. Finalmente, un archivo con los estilos personales */src/assets/jall.css*. Puede encontrar muchas más plantillas [aquí](https://github.com/topics/pandoc-template)
+
 
 ## html.yaml
 
-Necesitamos un archivo **html.yaml** que nos permita configurar la compilación de Pandoc. Lo puede encontrar en */html.yaml* y que consta del siguiente contenido:
+Necesitamos un archivo **html.yaml** que nos permita configurar la compilación de Pandoc y así evitar una enorme línea de comando de conversión. Lo puede encontrar en */html.yaml*:
 ```yaml
 from: markdown
 to: html5
@@ -56,9 +63,9 @@ toc-depth: 3
 
 ## Archivos markdown y assets.
 
-Se encuentan en la carpeta */src*. Cada archivo *\*.md* será convertido en su correspondiente archivo *\*.html*. Por otro lado, se pueden crear tantas subcarpetas como sean necesarias (este markdown se encuentra, por ejemplo, en */src/detalles/index.md*).
+Se encuentan en la carpeta */src*. Cada archivo *\*.md* será convertido en su correspondiente archivo *\*.html*. Por otro lado, se pueden crear tantas subcarpetas como sean necesarias (este markdown se encuentra, por ejemplo, en */src/detalles/index.md*). La carpeta assets será copiada a */dist* después de un minimizado de los archivos *css*.
 
-Un elemento importante de los achivos markdown son las cabeceras escritas en markdown que aportan **metainformación** necesaria. Por ejemplo, esta es la cabecera de este archivo:
+Un elemento importante de los achivos markdown son las cabeceras escritas en yaml que aportan **metadatos** específicos de cada archivo a la hora de la conversión en páginas web. Por ejemplo, la cabecera del archivo correspondiente a esta página web es:
 
 ```yaml
 
@@ -79,9 +86,64 @@ Un elemento importante de los achivos markdown son las cabeceras escritas en mar
 ---
 ```
 
-Otros campos de metainformación e incluso definir variables se pueden encontrar en el apartado correspondiente de la [documentación](https://pandoc.org/MANUAL.html) de Pandoc.
+Casi todos los metadatos son opcionales salvo el título de la página y los archivos *css* usados en la página.
+Un detalle importante: estos datos deben tener una regla que los trate en la plantilla *GitHub.html*. Por ejemplo, a los metadatos:
+```yaml
+css:
+    - ../assets/katex.min.css
+    - ../assets/github.min.css
+    - ../assets/jall.min.css
+```
+le corresponde el siguiente fragmento en la plantilla:
+```html
+$for(css)$
+  <link rel="stylesheet" href="$css$">
+$endfor$
+```
+
+Otros campos de metadatos predefinidos y opcionales e incluso cómo definir variables propias se pueden encontrar en el apartado correspondiente de la [documentación](https://pandoc.org/MANUAL.html) de Pandoc.
 
 # Gulp.
 
+El proyecto utiliza **Gulp** para dos tareas principales:
+
+| Tareas | gulpfile.js|
+|----|----|
+|automatizar la conversión de markdown a html|*gulp.task("**convert-md**")*|
+|pequeño servidor de desarrollo local|*gulp.task("**server**")*|
+
+*gulp.task("convert-md")* (líneas 12 a 39 del *gulpfile.js*) ejecuta **Pandoc** sobre los archivos *.md* la carpeta */src* y mueve los *.html* resultantes a la carpeta */dist*. Esto se realiza con la extensión [**gulp-exec**](https://github.com/robrich/gulp-exec).
+
+Para lanzar el servidor de desarrollo ejecute:
+
+```bash
+npm start
+```
+Su salida debería verse similar a esta:
+
+```
+> gulp default --options false
+
+[09:10:30] Using gulpfile ~/Proyectos/Pandoc/pandoc-static-site/gulpfile.js
+[09:10:30] Starting 'default'...
+[09:10:30] Starting 'server'...
+[09:10:30] Starting 'convert-md'...
+[09:10:33] Finished 'convert-md' after 3.63 s
+[09:10:33] Starting 'minify-css'...
+[09:10:33] Finished 'minify-css' after 121 ms
+[09:10:33] Starting 'cp-images'...
+[09:10:33] Finished 'cp-images' after 29 ms
+[09:10:33] Starting '<anonymous>'...
+[Browsersync] Access URLs:
+ -----------------------------------
+       Local: http://localhost:3000
+    External: http://172.19.0.1:3000
+ -----------------------------------
+          UI: http://localhost:3001
+ UI External: http://localhost:3001
+ -----------------------------------
+[Browsersync] Serving files from: ./dist
+```
+Puede trabajar en elaborar su contenido mientras que el servidor estará observando y esperando cambios; se encargará de actualizar la salida en el navegador cuando detecte cambios en *.md*, *.css* y la carpeta de *images*
 
 # Git.
